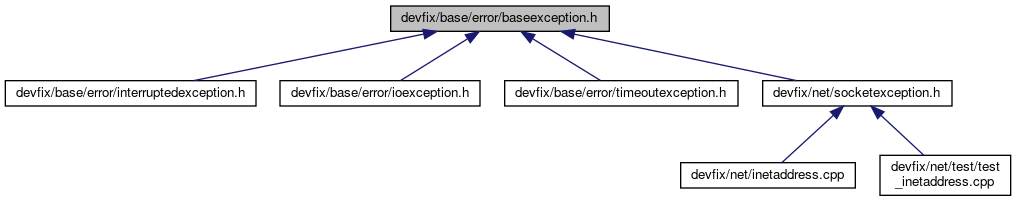
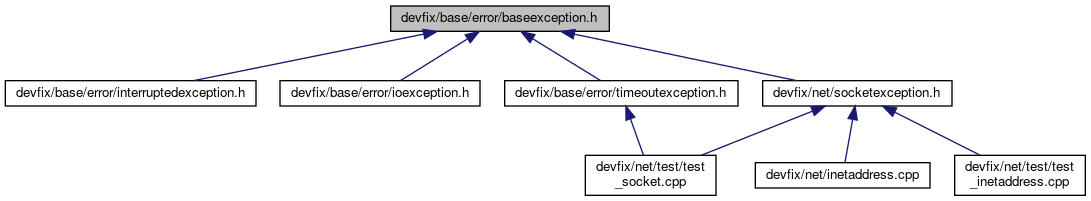
write timeout fixed

diff --git a/docs/html/test__socket_8cpp.html b/docs/html/test__socket_8cpp.html
@@ -76,18 +76,23 @@ $(function() {
 <code>#include &lt;unistd.h&gt;</code><br />
 <code>#include &lt;cstring&gt;</code><br />
 <code>#include &quot;<a class="el" href="netbuilder_8h_source.html">../netbuilder.h</a>&quot;</code><br />
+<code>#include &quot;<a class="el" href="socketexception_8h_source.html">../socketexception.h</a>&quot;</code><br />
+<code>#include &quot;<a class="el" href="timeoutexception_8h_source.html">../../base/error/timeoutexception.h</a>&quot;</code><br />
 </div><div class="textblock"><div class="dynheader">
 Include dependency graph for test_socket.cpp:</div>
 <div class="dyncontent">
 <div class="center"><img src="test__socket_8cpp__incl.png" border="0" usemap="#devfix_2net_2test_2test__socket_8cpp" alt=""/></div>
 <map name="devfix_2net_2test_2test__socket_8cpp" id="devfix_2net_2test_2test__socket_8cpp">
-<area shape="rect" id="node7" href="netbuilder_8h.html" title="../netbuilder.h" alt="" coords="482,95,583,121"/>
-<area shape="rect" id="node8" href="socket_8h.html" title="socket.h" alt="" coords="497,169,569,196"/>
-<area shape="rect" id="node9" href="inetaddress_8h.html" title="inetaddress.h" alt="" coords="347,244,447,271"/>
-<area shape="rect" id="node10" href="platform_8h.html" title="../base/platform.h" alt="" coords="247,319,371,345"/>
-<area shape="rect" id="node12" href="memory_8h.html" title="../base/memory.h" alt="" coords="471,244,595,271"/>
-<area shape="rect" id="node14" href="inputstream_8h.html" title="../base/io/inputstream.h" alt="" coords="619,244,777,271"/>
-<area shape="rect" id="node16" href="outputstream_8h.html" title="../base/io/outputstream.h" alt="" coords="801,244,968,271"/>
+<area shape="rect" id="node7" href="netbuilder_8h.html" title="../netbuilder.h" alt="" coords="450,95,551,121"/>
+<area shape="rect" id="node17" href="socketexception_8h.html" title="../socketexception.h" alt="" coords="627,95,767,121"/>
+<area shape="rect" id="node20" href="timeoutexception_8h.html" title="../../base/error/timeoutexception.h" alt="" coords="791,95,1010,121"/>
+<area shape="rect" id="node8" href="socket_8h.html" title="socket.h" alt="" coords="445,169,517,196"/>
+<area shape="rect" id="node9" href="inetaddress_8h.html" title="inetaddress.h" alt="" coords="579,244,679,271"/>
+<area shape="rect" id="node10" href="platform_8h.html" title="../base/platform.h" alt="" coords="516,319,640,345"/>
+<area shape="rect" id="node12" href="memory_8h.html" title="../base/memory.h" alt="" coords="5,244,129,271"/>
+<area shape="rect" id="node14" href="inputstream_8h.html" title="../base/io/inputstream.h" alt="" coords="153,244,312,271"/>
+<area shape="rect" id="node16" href="outputstream_8h.html" title="../base/io/outputstream.h" alt="" coords="336,244,503,271"/>
+<area shape="rect" id="node18" href="baseexception_8h.html" title="../base/error/baseexception.h" alt="" coords="707,169,897,196"/>
 </map>
 </div>
 </div><table class="memberdecls">
@@ -97,6 +102,10 @@ Functions</h2></td></tr>
 <tr class="separator:aab99bc83145110194ea22d9e4c60303e"><td class="memSeparator" colspan="2">&#160;</td></tr>
 <tr class="memitem:af906a479507e9caec5a5afc0d23afda1"><td class="memItemLeft" align="right" valign="top">&#160;</td><td class="memItemRight" valign="bottom"><a class="el" href="test__socket_8cpp.html#af906a479507e9caec5a5afc0d23afda1">TEST</a> (Socket, IO)</td></tr>
 <tr class="separator:af906a479507e9caec5a5afc0d23afda1"><td class="memSeparator" colspan="2">&#160;</td></tr>
+<tr class="memitem:a8e9e96e9ac196ea94a4b4b77c9e1d9c4"><td class="memItemLeft" align="right" valign="top">&#160;</td><td class="memItemRight" valign="bottom"><a class="el" href="test__socket_8cpp.html#a8e9e96e9ac196ea94a4b4b77c9e1d9c4">TEST</a> (Socket, ReadTimeout)</td></tr>
+<tr class="separator:a8e9e96e9ac196ea94a4b4b77c9e1d9c4"><td class="memSeparator" colspan="2">&#160;</td></tr>
+<tr class="memitem:a8ac4e57ecbba7e303e16e08729b61129"><td class="memItemLeft" align="right" valign="top">&#160;</td><td class="memItemRight" valign="bottom"><a class="el" href="test__socket_8cpp.html#a8ac4e57ecbba7e303e16e08729b61129">TEST</a> (Socket, WriteTimeout)</td></tr>
+<tr class="separator:a8ac4e57ecbba7e303e16e08729b61129"><td class="memSeparator" colspan="2">&#160;</td></tr>
 </table><table class="memberdecls">
 <tr class="heading"><td colspan="2"><h2 class="groupheader"><a name="var-members"></a>
 Variables</h2></td></tr>
@@ -113,7 +122,7 @@ Variables</h2></td></tr>
 </table>
 <h2 class="groupheader">Function Documentation</h2>
 <a id="aab99bc83145110194ea22d9e4c60303e"></a>
-<h2 class="memtitle"><span class="permalink"><a href="#aab99bc83145110194ea22d9e4c60303e">&#9670;&nbsp;</a></span>TEST() <span class="overload">[1/2]</span></h2>
+<h2 class="memtitle"><span class="permalink"><a href="#aab99bc83145110194ea22d9e4c60303e">&#9670;&nbsp;</a></span>TEST() <span class="overload">[1/4]</span></h2>
 
 <div class="memitem">
 <div class="memproto">
@@ -141,7 +150,7 @@ Variables</h2></td></tr>
 </div>
 </div>
 <a id="af906a479507e9caec5a5afc0d23afda1"></a>
-<h2 class="memtitle"><span class="permalink"><a href="#af906a479507e9caec5a5afc0d23afda1">&#9670;&nbsp;</a></span>TEST() <span class="overload">[2/2]</span></h2>
+<h2 class="memtitle"><span class="permalink"><a href="#af906a479507e9caec5a5afc0d23afda1">&#9670;&nbsp;</a></span>TEST() <span class="overload">[2/4]</span></h2>
 
 <div class="memitem">
 <div class="memproto">
@@ -156,6 +165,62 @@ Variables</h2></td></tr>
           <td class="paramkey"></td>
           <td></td>
           <td class="paramtype">IO&#160;</td>
+          <td class="paramname">&#160;</td>
+        </tr>
+        <tr>
+          <td></td>
+          <td>)</td>
+          <td></td><td></td>
+        </tr>
+      </table>
+</div><div class="memdoc">
+
+</div>
+</div>
+<a id="a8e9e96e9ac196ea94a4b4b77c9e1d9c4"></a>
+<h2 class="memtitle"><span class="permalink"><a href="#a8e9e96e9ac196ea94a4b4b77c9e1d9c4">&#9670;&nbsp;</a></span>TEST() <span class="overload">[3/4]</span></h2>
+
+<div class="memitem">
+<div class="memproto">
+      <table class="memname">
+        <tr>
+          <td class="memname">TEST </td>
+          <td>(</td>
+          <td class="paramtype">Socket&#160;</td>
+          <td class="paramname">, </td>
+        </tr>
+        <tr>
+          <td class="paramkey"></td>
+          <td></td>
+          <td class="paramtype">ReadTimeout&#160;</td>
+          <td class="paramname">&#160;</td>
+        </tr>
+        <tr>
+          <td></td>
+          <td>)</td>
+          <td></td><td></td>
+        </tr>
+      </table>
+</div><div class="memdoc">
+
+</div>
+</div>
+<a id="a8ac4e57ecbba7e303e16e08729b61129"></a>
+<h2 class="memtitle"><span class="permalink"><a href="#a8ac4e57ecbba7e303e16e08729b61129">&#9670;&nbsp;</a></span>TEST() <span class="overload">[4/4]</span></h2>
+
+<div class="memitem">
+<div class="memproto">
+      <table class="memname">
+        <tr>
+          <td class="memname">TEST </td>
+          <td>(</td>
+          <td class="paramtype">Socket&#160;</td>
+          <td class="paramname">, </td>
+        </tr>
+        <tr>
+          <td class="paramkey"></td>
+          <td></td>
+          <td class="paramtype">WriteTimeout&#160;</td>
           <td class="paramname">&#160;</td>
         </tr>
         <tr>

diff --git a/docs/html/dir_000004_000001.html b/docs/html/dir_000004_000001.html
@@ -63,7 +63,7 @@ $(function() {
 </div>
 </div><!-- top -->
 <div class="contents">
-<h3>net &rarr; base Relation</h3><table class="dirtab"><tr class="dirtab"><th class="dirtab">File in devfix/net</th><th class="dirtab">Includes file in devfix/base</th></tr><tr class="dirtab"><td class="dirtab"><a class="el" href="inetaddress_8cpp.html">inetaddress.cpp</a></td><td class="dirtab"><a class="el" href="platform_8h.html">platform.h</a></td></tr><tr class="dirtab"><td class="dirtab"><a class="el" href="inetaddress_8h.html">inetaddress.h</a></td><td class="dirtab"><a class="el" href="platform_8h.html">platform.h</a></td></tr><tr class="dirtab"><td class="dirtab"><a class="el" href="dir_6d62cc651dbe3224aa0cecd53bc300b3.html">lnx</a>&#160;/&#160;<a class="el" href="lnx__serversocket_8cpp.html">lnx_serversocket.cpp</a></td><td class="dirtab"><a class="el" href="platform_8h.html">platform.h</a></td></tr><tr class="dirtab"><td class="dirtab"><a class="el" href="dir_6d62cc651dbe3224aa0cecd53bc300b3.html">lnx</a>&#160;/&#160;<a class="el" href="lnx__serversocket_8h.html">lnx_serversocket.h</a></td><td class="dirtab"><a class="el" href="platform_8h.html">platform.h</a></td></tr><tr class="dirtab"><td class="dirtab"><a class="el" href="dir_6d62cc651dbe3224aa0cecd53bc300b3.html">lnx</a>&#160;/&#160;<a class="el" href="lnx__socket_8cpp.html">lnx_socket.cpp</a></td><td class="dirtab"><a class="el" href="platform_8h.html">platform.h</a></td></tr><tr class="dirtab"><td class="dirtab"><a class="el" href="dir_6d62cc651dbe3224aa0cecd53bc300b3.html">lnx</a>&#160;/&#160;<a class="el" href="lnx__socket_8h.html">lnx_socket.h</a></td><td class="dirtab"><a class="el" href="platform_8h.html">platform.h</a></td></tr><tr class="dirtab"><td class="dirtab"><a class="el" href="socket_8h.html">socket.h</a></td><td class="dirtab"><a class="el" href="dir_fcb0dc26b8dbf7236e04b930c7b45c0d.html">io</a>&#160;/&#160;<a class="el" href="inputstream_8h.html">inputstream.h</a></td></tr><tr class="dirtab"><td class="dirtab"><a class="el" href="socket_8h.html">socket.h</a></td><td class="dirtab"><a class="el" href="memory_8h.html">memory.h</a></td></tr><tr class="dirtab"><td class="dirtab"><a class="el" href="socket_8h.html">socket.h</a></td><td class="dirtab"><a class="el" href="dir_fcb0dc26b8dbf7236e04b930c7b45c0d.html">io</a>&#160;/&#160;<a class="el" href="outputstream_8h.html">outputstream.h</a></td></tr><tr class="dirtab"><td class="dirtab"><a class="el" href="socket_8h.html">socket.h</a></td><td class="dirtab"><a class="el" href="platform_8h.html">platform.h</a></td></tr><tr class="dirtab"><td class="dirtab"><a class="el" href="socketexception_8h.html">socketexception.h</a></td><td class="dirtab"><a class="el" href="dir_c71ea5b23bbd3b196f84847c235d793f.html">error</a>&#160;/&#160;<a class="el" href="baseexception_8h.html">baseexception.h</a></td></tr></table></div><!-- contents -->
+<h3>net &rarr; base Relation</h3><table class="dirtab"><tr class="dirtab"><th class="dirtab">File in devfix/net</th><th class="dirtab">Includes file in devfix/base</th></tr><tr class="dirtab"><td class="dirtab"><a class="el" href="inetaddress_8cpp.html">inetaddress.cpp</a></td><td class="dirtab"><a class="el" href="platform_8h.html">platform.h</a></td></tr><tr class="dirtab"><td class="dirtab"><a class="el" href="inetaddress_8h.html">inetaddress.h</a></td><td class="dirtab"><a class="el" href="platform_8h.html">platform.h</a></td></tr><tr class="dirtab"><td class="dirtab"><a class="el" href="dir_6d62cc651dbe3224aa0cecd53bc300b3.html">lnx</a>&#160;/&#160;<a class="el" href="lnx__serversocket_8cpp.html">lnx_serversocket.cpp</a></td><td class="dirtab"><a class="el" href="platform_8h.html">platform.h</a></td></tr><tr class="dirtab"><td class="dirtab"><a class="el" href="dir_6d62cc651dbe3224aa0cecd53bc300b3.html">lnx</a>&#160;/&#160;<a class="el" href="lnx__serversocket_8h.html">lnx_serversocket.h</a></td><td class="dirtab"><a class="el" href="platform_8h.html">platform.h</a></td></tr><tr class="dirtab"><td class="dirtab"><a class="el" href="dir_6d62cc651dbe3224aa0cecd53bc300b3.html">lnx</a>&#160;/&#160;<a class="el" href="lnx__socket_8cpp.html">lnx_socket.cpp</a></td><td class="dirtab"><a class="el" href="platform_8h.html">platform.h</a></td></tr><tr class="dirtab"><td class="dirtab"><a class="el" href="dir_6d62cc651dbe3224aa0cecd53bc300b3.html">lnx</a>&#160;/&#160;<a class="el" href="lnx__socket_8h.html">lnx_socket.h</a></td><td class="dirtab"><a class="el" href="platform_8h.html">platform.h</a></td></tr><tr class="dirtab"><td class="dirtab"><a class="el" href="socket_8h.html">socket.h</a></td><td class="dirtab"><a class="el" href="dir_fcb0dc26b8dbf7236e04b930c7b45c0d.html">io</a>&#160;/&#160;<a class="el" href="inputstream_8h.html">inputstream.h</a></td></tr><tr class="dirtab"><td class="dirtab"><a class="el" href="socket_8h.html">socket.h</a></td><td class="dirtab"><a class="el" href="memory_8h.html">memory.h</a></td></tr><tr class="dirtab"><td class="dirtab"><a class="el" href="socket_8h.html">socket.h</a></td><td class="dirtab"><a class="el" href="dir_fcb0dc26b8dbf7236e04b930c7b45c0d.html">io</a>&#160;/&#160;<a class="el" href="outputstream_8h.html">outputstream.h</a></td></tr><tr class="dirtab"><td class="dirtab"><a class="el" href="socket_8h.html">socket.h</a></td><td class="dirtab"><a class="el" href="platform_8h.html">platform.h</a></td></tr><tr class="dirtab"><td class="dirtab"><a class="el" href="socketexception_8h.html">socketexception.h</a></td><td class="dirtab"><a class="el" href="dir_c71ea5b23bbd3b196f84847c235d793f.html">error</a>&#160;/&#160;<a class="el" href="baseexception_8h.html">baseexception.h</a></td></tr><tr class="dirtab"><td class="dirtab"><a class="el" href="dir_6eba3a0e794657e5363ff52677566bc9.html">test</a>&#160;/&#160;<a class="el" href="test__socket_8cpp.html">test_socket.cpp</a></td><td class="dirtab"><a class="el" href="dir_c71ea5b23bbd3b196f84847c235d793f.html">error</a>&#160;/&#160;<a class="el" href="timeoutexception_8h.html">timeoutexception.h</a></td></tr></table></div><!-- contents -->
 <!-- start footer part -->
 <hr class="footer"/><address class="footer"><small>
 Generated by &#160;<a href="http://www.doxygen.org/index.html">

diff --git a/docs/html/dir_000006_000001.html b/docs/html/dir_000006_000001.html
@@ -5,7 +5,7 @@
 <meta http-equiv="X-UA-Compatible" content="IE=9"/>
 <meta name="generator" content="Doxygen 1.8.13"/>
 <meta name="viewport" content="width=device-width, initial-scale=1"/>
-<title>c++ library collection: File Members</title>
+<title>c++ library collection: devfix/net/test -&gt; base Relation</title>
 <link href="tabs.css" rel="stylesheet" type="text/css"/>
 <script type="text/javascript" src="jquery.js"></script>
 <script type="text/javascript" src="dynsections.js"></script>
@@ -43,7 +43,6 @@ $(function() {
 });
 </script>
 <div id="main-nav"></div>
-</div><!-- top -->
 <!-- window showing the filter options -->
 <div id="MSearchSelectWindow"
      onmouseover="return searchBox.OnSearchSelectShow()"
@@ -58,14 +57,13 @@ $(function() {
 </iframe>
 </div>
 
+<div id="nav-path" class="navpath">
+  <ul>
+<li class="navelem"><a class="el" href="dir_b10797201a02ca2528b82392b2b9583b.html">devfix</a></li><li class="navelem"><a class="el" href="dir_9e433a03997685d3352eb90f3caca608.html">net</a></li><li class="navelem"><a class="el" href="dir_6eba3a0e794657e5363ff52677566bc9.html">test</a></li>  </ul>
+</div>
+</div><!-- top -->
 <div class="contents">
-&#160;<ul>
-<li>TEST()
-: <a class="el" href="test__inetaddress_8cpp.html#a2d43dd3f1abda9845af757f2960f5c5e">test_inetaddress.cpp</a>
-, <a class="el" href="test__socket_8cpp.html#a8ac4e57ecbba7e303e16e08729b61129">test_socket.cpp</a>
-</li>
-</ul>
-</div><!-- contents -->
+<h3>test &rarr; base Relation</h3><table class="dirtab"><tr class="dirtab"><th class="dirtab">File in devfix/net/test</th><th class="dirtab">Includes file in devfix/base</th></tr><tr class="dirtab"><td class="dirtab"><a class="el" href="test__socket_8cpp.html">test_socket.cpp</a></td><td class="dirtab"><a class="el" href="dir_c71ea5b23bbd3b196f84847c235d793f.html">error</a>&#160;/&#160;<a class="el" href="timeoutexception_8h.html">timeoutexception.h</a></td></tr></table></div><!-- contents -->
 <!-- start footer part -->
 <hr class="footer"/><address class="footer"><small>
 Generated by &#160;<a href="http://www.doxygen.org/index.html">

diff --git a/docs/html/baseexception_8h.html b/docs/html/baseexception_8h.html
@@ -87,9 +87,10 @@ This graph shows which files directly or indirectly include this file:</div>
 <area shape="rect" id="node2" href="interruptedexception_8h.html" title="devfix/base/error/interruptedexception.h" alt="" coords="5,80,256,107"/>
 <area shape="rect" id="node3" href="ioexception_8h.html" title="devfix/base/error/ioexception.h" alt="" coords="280,80,480,107"/>
 <area shape="rect" id="node4" href="timeoutexception_8h.html" title="devfix/base/error/timeoutexception.h" alt="" coords="505,80,738,107"/>
-<area shape="rect" id="node5" href="socketexception_8h.html" title="devfix/net/socketexception.h" alt="" coords="763,80,952,107"/>
-<area shape="rect" id="node6" href="inetaddress_8cpp.html" title="devfix/net/inetaddress.cpp" alt="" coords="681,162,855,189"/>
-<area shape="rect" id="node7" href="test__inetaddress_8cpp.html" title="devfix/net/test/test\l_inetaddress.cpp" alt="" coords="880,155,1011,196"/>
+<area shape="rect" id="node6" href="socketexception_8h.html" title="devfix/net/socketexception.h" alt="" coords="763,80,952,107"/>
+<area shape="rect" id="node5" href="test__socket_8cpp.html" title="devfix/net/test/test\l_socket.cpp" alt="" coords="585,155,716,196"/>
+<area shape="rect" id="node7" href="inetaddress_8cpp.html" title="devfix/net/inetaddress.cpp" alt="" coords="755,162,930,189"/>
+<area shape="rect" id="node8" href="test__inetaddress_8cpp.html" title="devfix/net/test/test\l_inetaddress.cpp" alt="" coords="955,155,1085,196"/>
 </map>
 </div>
 </div>

diff --git a/docs/html/search/functions_9.js b/docs/html/search/functions_9.js
@@ -1,5 +1,5 @@
 var searchData=
 [
-  ['test',['TEST',['../test__inetaddress_8cpp.html#a2d43dd3f1abda9845af757f2960f5c5e',1,'TEST(Inetaddress, CreateByHost):&#160;test_inetaddress.cpp'],['../test__socket_8cpp.html#aab99bc83145110194ea22d9e4c60303e',1,'TEST(Socket, Address):&#160;test_socket.cpp'],['../test__socket_8cpp.html#af906a479507e9caec5a5afc0d23afda1',1,'TEST(Socket, IO):&#160;test_socket.cpp']]],
+  ['test',['TEST',['../test__inetaddress_8cpp.html#a2d43dd3f1abda9845af757f2960f5c5e',1,'TEST(Inetaddress, CreateByHost):&#160;test_inetaddress.cpp'],['../test__socket_8cpp.html#aab99bc83145110194ea22d9e4c60303e',1,'TEST(Socket, Address):&#160;test_socket.cpp'],['../test__socket_8cpp.html#af906a479507e9caec5a5afc0d23afda1',1,'TEST(Socket, IO):&#160;test_socket.cpp'],['../test__socket_8cpp.html#a8e9e96e9ac196ea94a4b4b77c9e1d9c4',1,'TEST(Socket, ReadTimeout):&#160;test_socket.cpp'],['../test__socket_8cpp.html#a8ac4e57ecbba7e303e16e08729b61129',1,'TEST(Socket, WriteTimeout):&#160;test_socket.cpp']]],
   ['timeoutexception',['timeoutexception',['../structdevfix_1_1base_1_1error_1_1timeoutexception.html#abb684b432a5367385d8f975898226c8d',1,'devfix::base::error::timeoutexception::timeoutexception(const std::string &amp;what_arg, int err=-1)'],['../structdevfix_1_1base_1_1error_1_1timeoutexception.html#a7096cca05d73ac6da75746d1737e1ec1',1,'devfix::base::error::timeoutexception::timeoutexception(const char *what_arg, int err=-1)']]]
 ];

diff --git a/docs/html/dir_9e433a03997685d3352eb90f3caca608.html b/docs/html/dir_9e433a03997685d3352eb90f3caca608.html
@@ -73,9 +73,10 @@ Directory dependency graph for net:</div>
 <div class="center"><img src="dir_9e433a03997685d3352eb90f3caca608_dep.png" border="0" usemap="#dir__9e433a03997685d3352eb90f3caca608__dep" alt="devfix/net"/></div>
 <map name="dir__9e433a03997685d3352eb90f3caca608__dep" id="dir__9e433a03997685d3352eb90f3caca608__dep">
 <area shape="rect" id="node2" href="dir_6d62cc651dbe3224aa0cecd53bc300b3.html" title="lnx" alt="" coords="133,63,205,111"/>
-<area shape="rect" id="node4" href="dir_fc20acc29398861795d68f972ea10d7e.html" title="base" alt="" coords="133,159,205,207"/>
-<area shape="rect" id="edge1-headlabel" href="dir_000005_000001.html" title="4" alt="" coords="174,133,182,147"/>
+<area shape="rect" id="node4" href="dir_fc20acc29398861795d68f972ea10d7e.html" title="base" alt="" coords="85,159,157,207"/>
+<area shape="rect" id="edge1-headlabel" href="dir_000005_000001.html" title="4" alt="" coords="145,138,153,153"/>
 <area shape="rect" id="node3" href="dir_6eba3a0e794657e5363ff52677566bc9.html" title="test" alt="" coords="37,63,109,111"/>
+<area shape="rect" id="edge2-headlabel" href="dir_000006_000001.html" title="1" alt="" coords="105,131,113,145"/>
 <area shape="rect" id="clust2" href="dir_9e433a03997685d3352eb90f3caca608.html" alt="" coords="27,52,312,121"/>
 <area shape="rect" id="clust1" href="dir_b10797201a02ca2528b82392b2b9583b.html" title="devfix" alt="" coords="16,16,323,132"/>
 </map>

diff --git a/docs/html/search/all_10.js b/docs/html/search/all_10.js
@@ -1,6 +1,6 @@
 var searchData=
 [
-  ['test',['TEST',['../test__inetaddress_8cpp.html#a2d43dd3f1abda9845af757f2960f5c5e',1,'TEST(Inetaddress, CreateByHost):&#160;test_inetaddress.cpp'],['../test__socket_8cpp.html#aab99bc83145110194ea22d9e4c60303e',1,'TEST(Socket, Address):&#160;test_socket.cpp'],['../test__socket_8cpp.html#af906a479507e9caec5a5afc0d23afda1',1,'TEST(Socket, IO):&#160;test_socket.cpp']]],
+  ['test',['TEST',['../test__inetaddress_8cpp.html#a2d43dd3f1abda9845af757f2960f5c5e',1,'TEST(Inetaddress, CreateByHost):&#160;test_inetaddress.cpp'],['../test__socket_8cpp.html#aab99bc83145110194ea22d9e4c60303e',1,'TEST(Socket, Address):&#160;test_socket.cpp'],['../test__socket_8cpp.html#af906a479507e9caec5a5afc0d23afda1',1,'TEST(Socket, IO):&#160;test_socket.cpp'],['../test__socket_8cpp.html#a8e9e96e9ac196ea94a4b4b77c9e1d9c4',1,'TEST(Socket, ReadTimeout):&#160;test_socket.cpp'],['../test__socket_8cpp.html#a8ac4e57ecbba7e303e16e08729b61129',1,'TEST(Socket, WriteTimeout):&#160;test_socket.cpp']]],
   ['test_5farray',['TEST_ARRAY',['../test__socket_8cpp.html#a8e162dca1b55696b68d2d17f71be0e8b',1,'test_socket.cpp']]],
   ['test_5fdouble',['TEST_DOUBLE',['../test__socket_8cpp.html#a02d50ba9edd638d61240e492e959d97e',1,'test_socket.cpp']]],
   ['test_5ffloat',['TEST_FLOAT',['../test__socket_8cpp.html#a542923970c835c9742c71e04024aa47d',1,'test_socket.cpp']]],

diff --git a/docs/html/timeoutexception_8h.html b/docs/html/timeoutexception_8h.html
@@ -79,6 +79,14 @@ Include dependency graph for timeoutexception.h:</div>
 <area shape="rect" id="node2" href="baseexception_8h.html" title="baseexception.h" alt="" coords="77,80,194,107"/>
 </map>
 </div>
+</div><div class="textblock"><div class="dynheader">
+This graph shows which files directly or indirectly include this file:</div>
+<div class="dyncontent">
+<div class="center"><img src="timeoutexception_8h__dep__incl.png" border="0" usemap="#devfix_2base_2error_2timeoutexception_8hdep" alt=""/></div>
+<map name="devfix_2base_2error_2timeoutexception_8hdep" id="devfix_2base_2error_2timeoutexception_8hdep">
+<area shape="rect" id="node2" href="test__socket_8cpp.html" title="devfix/net/test/test\l_socket.cpp" alt="" coords="57,80,187,121"/>
+</map>
+</div>
 </div>
 <p><a href="timeoutexception_8h_source.html">Go to the source code of this file.</a></p>
 <table class="memberdecls">

diff --git a/docs/html/dir_6eba3a0e794657e5363ff52677566bc9.html b/docs/html/dir_6eba3a0e794657e5363ff52677566bc9.html
@@ -73,6 +73,8 @@ Directory dependency graph for test:</div>
 <div class="center"><img src="dir_6eba3a0e794657e5363ff52677566bc9_dep.png" border="0" usemap="#dir__6eba3a0e794657e5363ff52677566bc9__dep" alt="devfix/net/test"/></div>
 <map name="dir__6eba3a0e794657e5363ff52677566bc9__dep" id="dir__6eba3a0e794657e5363ff52677566bc9__dep">
 <area shape="rect" id="node1" href="dir_6eba3a0e794657e5363ff52677566bc9.html" title="test" alt="" coords="27,52,99,100"/>
+<area shape="rect" id="node2" href="dir_fc20acc29398861795d68f972ea10d7e.html" title="base" alt="" coords="27,148,99,196"/>
+<area shape="rect" id="edge1-headlabel" href="dir_000006_000001.html" title="1" alt="" coords="67,122,75,137"/>
 <area shape="rect" id="clust1" href="dir_9e433a03997685d3352eb90f3caca608.html" title="net" alt="" coords="16,16,109,111"/>
 </map>
 </div>

diff --git a/docs/html/dir_b10797201a02ca2528b82392b2b9583b.html b/docs/html/dir_b10797201a02ca2528b82392b2b9583b.html
@@ -74,7 +74,7 @@ Directory dependency graph for devfix:</div>
 <map name="dir__b10797201a02ca2528b82392b2b9583b__dep" id="dir__b10797201a02ca2528b82392b2b9583b__dep">
 <area shape="rect" id="node2" href="dir_fc20acc29398861795d68f972ea10d7e.html" title="base" alt="" coords="27,123,99,171"/>
 <area shape="rect" id="node3" href="dir_9e433a03997685d3352eb90f3caca608.html" title="net" alt="" coords="27,27,99,75"/>
-<area shape="rect" id="edge1-headlabel" href="dir_000004_000001.html" title="11" alt="" coords="64,97,78,111"/>
+<area shape="rect" id="edge1-headlabel" href="dir_000004_000001.html" title="12" alt="" coords="64,97,78,111"/>
 <area shape="rect" id="clust1" href="dir_b10797201a02ca2528b82392b2b9583b.html" alt="" coords="16,16,205,181"/>
 </map>
 </div>

diff --git a/docs/html/socketexception_8h.html b/docs/html/socketexception_8h.html
@@ -86,6 +86,7 @@ This graph shows which files directly or indirectly include this file:</div>
 <map name="devfix_2net_2socketexception_8hdep" id="devfix_2net_2socketexception_8hdep">
 <area shape="rect" id="node2" href="inetaddress_8cpp.html" title="devfix/net/inetaddress.cpp" alt="" coords="5,87,180,114"/>
 <area shape="rect" id="node3" href="test__inetaddress_8cpp.html" title="devfix/net/test/test\l_inetaddress.cpp" alt="" coords="205,80,335,121"/>
+<area shape="rect" id="node4" href="test__socket_8cpp.html" title="devfix/net/test/test\l_socket.cpp" alt="" coords="359,80,490,121"/>
 </map>
 </div>
 </div>

diff --git a/devfix/net/test/test_socket.cpp b/devfix/net/test/test_socket.cpp
@@ -8,6 +8,8 @@
 #include <unistd.h>
 #include <cstring>
 #include "../netbuilder.h"
+#include "../socketexception.h"
+#include "../../base/error/timeoutexception.h"
 
 using namespace devfix::net;
 using namespace devfix::base;
@@ -62,11 +64,9 @@ TEST(Socket, Address)
 TEST(Socket, IO)
 {
 	std::atomic_bool server_ready = false;
-	inetaddress server_local_address{};
-	inetaddress server_remote_address{};
 
 	std::thread server_thread(
-		[&server_ready, &server_local_address, &server_remote_address]()
+		[&server_ready]()
 		{
 			auto server = netbuilder::create_serversocket(
 				{ "0.0.0.0", TEST_PORT, inetaddress::family_t::IPV4 },
@@ -120,5 +120,84 @@ TEST(Socket, IO)
 	is.close();
 	os.close();
 
+	server_thread.join();
+}
+
+TEST(Socket, ReadTimeout)
+{
+	std::atomic_bool server_active = false;
+
+	std::thread server_thread(
+		[&server_active]()
+		{
+			auto server = netbuilder::create_serversocket(
+				{ "0.0.0.0", TEST_PORT, inetaddress::family_t::IPV4 },
+				true
+			);
+			server_active = true;
+			auto client = server->accept();
+
+			for (int k = 0; k < 3000 && server_active; k++)
+			{ std::this_thread::sleep_for(std::chrono::milliseconds(1)); }
+		});
+
+	while (!server_active);
+
+	auto client = netbuilder::create_socket(inetaddress("localhost", TEST_PORT));
+	client->set_timeout(10);
+
+	auto& is = client->get_inputstream();
+
+	char uff;
+	ASSERT_THROW(is.read(&uff, sizeof(uff)), error::timeoutexception);
+
+	server_active = false;
+	server_thread.join();
+}
+
+TEST(Socket, WriteTimeout)
+{
+	std::atomic_bool server_active = false;
+
+	std::thread server_thread(
+		[&server_active]()
+		{
+			auto server = netbuilder::create_serversocket(
+				{ "0.0.0.0", TEST_PORT, inetaddress::family_t::IPV4 },
+				true
+			);
+			server_active = true;
+			auto client = server->accept();
+
+			for (int k = 0; k < 3000 && server_active; k++)
+			{ std::this_thread::sleep_for(std::chrono::milliseconds(1)); }
+		});
+
+	while (!server_active);
+
+	auto client = netbuilder::create_socket(inetaddress("localhost", TEST_PORT));
+	client->set_timeout(10);
+
+	auto& os = client->get_outputstream();
+
+	std::this_thread::sleep_for(std::chrono::milliseconds(100));
+
+	char data[8192];
+	bool timeout = false;
+	while (!timeout)
+	{
+		try
+		{
+			os.write(&data, sizeof(data));
+		}
+		catch (error::timeoutexception& timeoutexception)
+		{
+			timeout = true;
+		}
+	}
+
+	ASSERT_TRUE(timeout);
+
+	server_active = false;
 	server_thread.join();
 }
